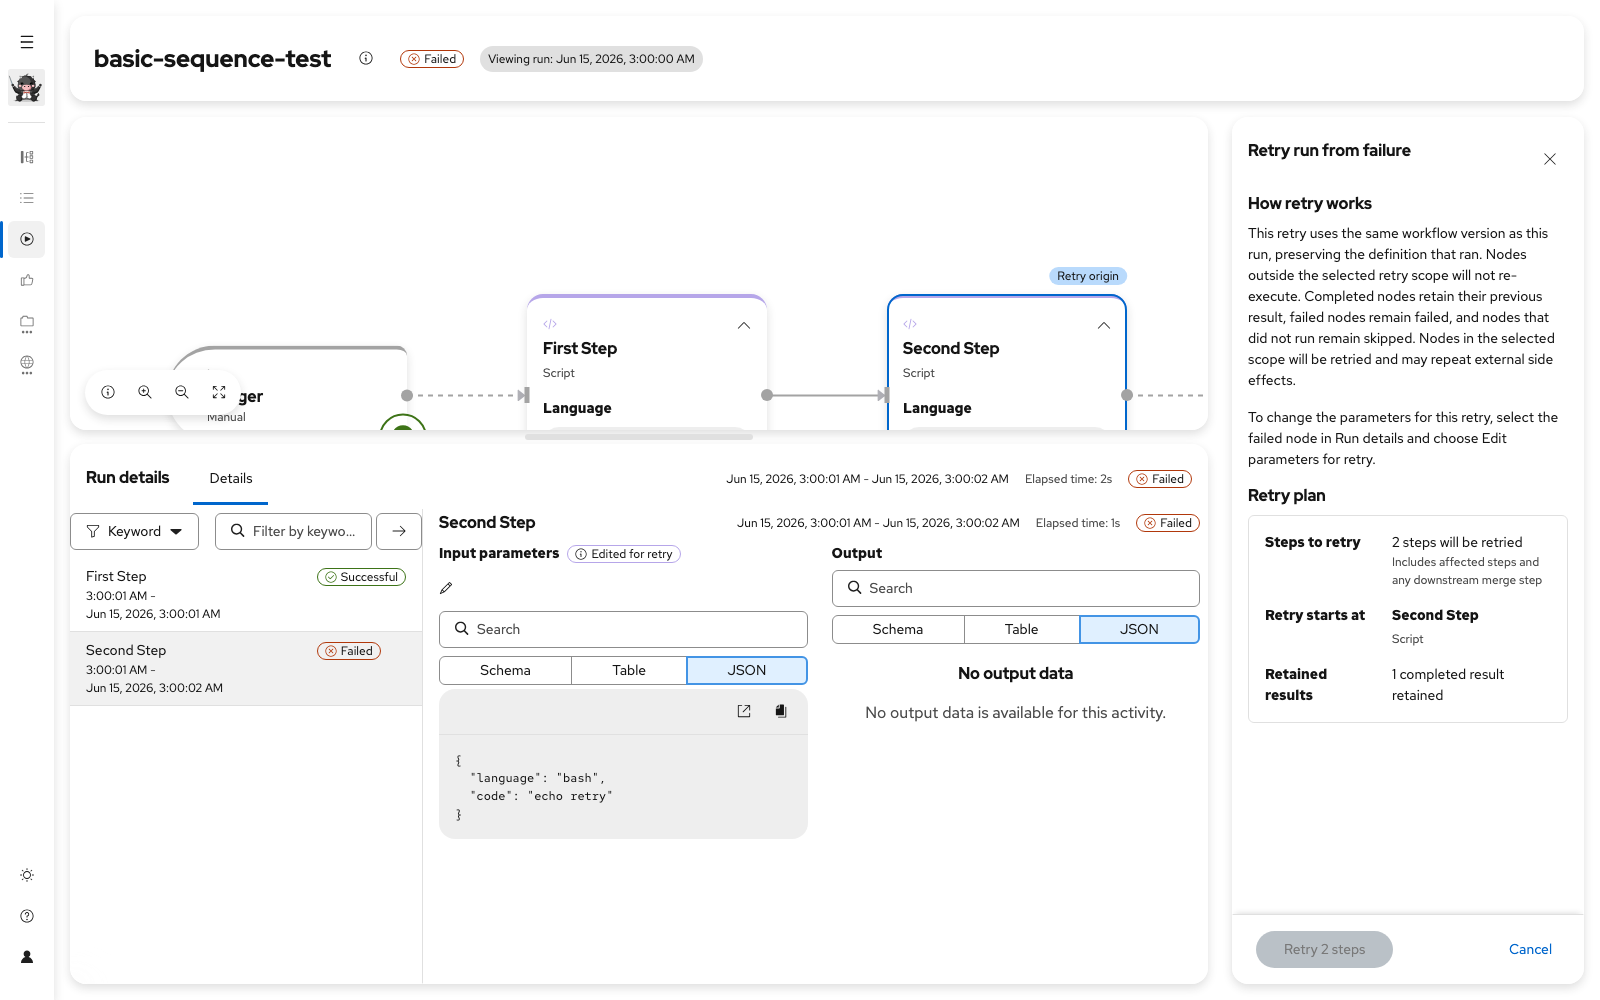
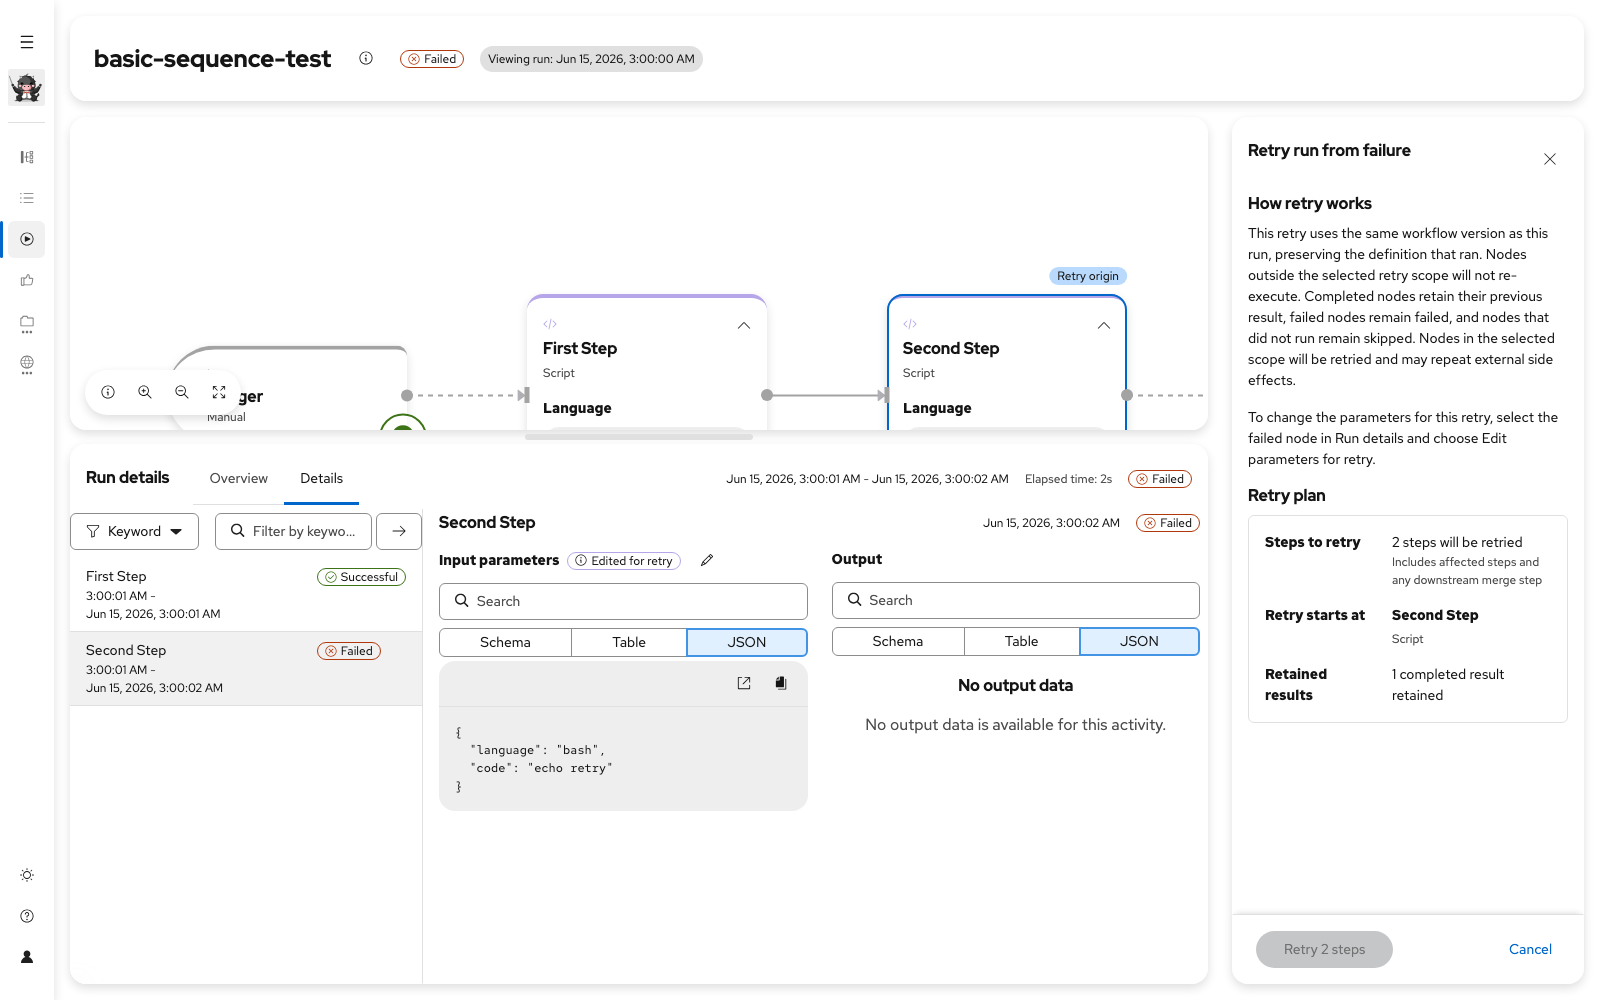
fix(frontend): align retry execution details

diff --git a/frontend/packages/syntara-ui/src/routes/executions/StepExecutionDetailsPanel.tsx b/frontend/packages/syntara-ui/src/routes/executions/StepExecutionDetailsPanel.tsx
@@ -33,10 +33,8 @@ import { SynCodeBlock } from '../../components/details/SynCodeBlock'
 import { SynLabel } from '../../components/labels/SynLabel'
 import { SynErrorState } from '../../components/states/SynErrorState'
 import { ExecutionTimestamp } from '../../components/table/ExecutionTimestamp'
-import { useElapsedTime } from '../../hooks/useElapsedTime'
 import { extractAAPJobUrl, isAAPNodeType } from '../../utils/aapJobUrl'
 import { capitalize } from '../../utils/capitalize'
-import { formatElapsedTime } from '../../utils/dateUtils'
 import { detachPromise } from '../../utils/detachPromise'
 import { highlightTextLines } from '../../utils/highlightText'
 import { ActivityStatusLabel } from '../builder/ExecutionStatus'
@@ -146,8 +144,8 @@ function DataPane({
           <div className={styles.dataPaneTitleRow}>
             <span className={styles.dataPaneTitle}>{title}</span>
             {titleAddon && <span className={styles.dataPaneTitleAddon}>{titleAddon}</span>}
+            {titleAction}
           </div>
-          {titleAction && <div className={styles.dataPaneTitleActionRow}>{titleAction}</div>}
           <div className={styles.dataPaneControlsWrap}>
             <Flex
               alignItems={{ default: stackControls ? 'alignItemsStretch' : 'alignItemsCenter' }}
@@ -278,15 +276,11 @@ function UsedToolsSection({ tools }: Readonly<{ tools: UsedTool[] }>) {
 
 function StepDetailsHeader({
   stepName,
-  stepStarted,
-  stepCompleted,
-  stepElapsedLabel,
+  stepTimestamp,
   status,
 }: Readonly<{
   stepName: string
-  stepStarted: string | null
-  stepCompleted: string | null
-  stepElapsedLabel?: string
+  stepTimestamp: string | null
   status?: ActivityState['status']
 }>) {
   return (
@@ -299,26 +293,12 @@ function StepDetailsHeader({
         </FlexItem>
         <FlexItem>
           <Flex gap={{ default: 'gapMd' }} alignItems={{ default: 'alignItemsCenter' }}>
-            {stepStarted && (
+            {stepTimestamp && (
               <Content
                 component={ContentVariants.small}
                 style={{ color: 'var(--pf-t--global--text--color--subtle)', margin: 0 }}
               >
-                <ExecutionTimestamp dateString={stepStarted} />
-                {stepCompleted && (
-                  <>
-                    {' - '}
-                    <ExecutionTimestamp dateString={stepCompleted} />
-                  </>
-                )}
-              </Content>
-            )}
-            {stepElapsedLabel && (
-              <Content
-                component={ContentVariants.small}
-                style={{ color: 'var(--pf-t--global--text--color--subtle)', margin: 0 }}
-              >
-                Elapsed time: {stepElapsedLabel}
+                <ExecutionTimestamp dateString={stepTimestamp} />
               </Content>
             )}
             {status && (
@@ -413,7 +393,6 @@ function StepContentArea({
                   <Tooltip content="Edit parameters for retry">
                     <Button
                       variant="plain"
-                      className={styles.retryInputEditButton}
                       aria-label="Edit parameters for retry"
                       isDisabled={retryEditorProps.isDisabled}
                       onClick={() =>
@@ -476,20 +455,14 @@ export function StepExecutionDetailsPanel({
   const approvalAudit = useMemo(() => extractApprovalAudit(outputData), [outputData])
   const usedTools = useMemo(() => extractUsedTools(outputData), [outputData])
 
-  const stepStarted = stepState?.startedAt ?? null
-  const stepCompleted = stepState?.completedAt ?? null
-  const stepIsRunning = stepState?.status === 'running'
+  const stepTimestamp = stepState?.completedAt ?? stepState?.startedAt ?? null
   const stepIsFailed = stepState?.status === 'failed'
-  const { elapsedMs } = useElapsedTime(stepStarted, stepCompleted, stepIsRunning)
-  const stepElapsedLabel = elapsedMs === undefined ? undefined : formatElapsedTime(elapsedMs)
 
   return (
     <Stack className={styles.contentContainer}>
       <StepDetailsHeader
         stepName={stepName}
-        stepStarted={stepStarted}
-        stepCompleted={stepCompleted}
-        stepElapsedLabel={stepElapsedLabel}
+        stepTimestamp={stepTimestamp}
         status={stepState?.status}
       />
 

diff --git a/frontend/packages/syntara-ui/e2e/workflows/retry-from-failure.spec.ts b/frontend/packages/syntara-ui/e2e/workflows/retry-from-failure.spec.ts
@@ -265,6 +265,7 @@ test.describe('Retry from failure', { tag: '@local-only' }, () => {
       await app.getByTestId('retry-from-failure-button').click()
 
       await expect(app.getByRole('tab', { name: 'Details' })).toHaveAttribute('aria-selected', 'true')
+      await expect(app.getByText(/^Elapsed time:/)).toHaveCount(1)
       await expect(app.getByText(/"language": "bash"/, { exact: false })).toBeVisible()
       await app.getByRole('button', { name: 'Edit parameters for retry' }).click()
 
@@ -294,17 +295,21 @@ test.describe('Retry from failure', { tag: '@local-only' }, () => {
       const inputTitle = app.getByText('Input parameters', { exact: true })
       const inputTitleBounds = await inputTitle.evaluate((element) => {
         const bounds = element.getBoundingClientRect()
-        return { left: bounds.left, top: bounds.top }
+        return { left: bounds.left, top: bounds.top, right: bounds.right, bottom: bounds.bottom }
       })
       const editedBadgeBounds = await app.getByText('Edited for retry').evaluate((element) => {
         const bounds = element.getBoundingClientRect()
         return { left: bounds.left, top: bounds.top }
       })
-      expect(Math.abs(inputTitleBounds.top - editedBadgeBounds.top)).toBeLessThanOrEqual(2)
+      expect(Math.abs(inputTitleBounds.top - editedBadgeBounds.top)).toBeLessThanOrEqual(4)
 
-      const editIcon = app.getByRole('button', { name: 'Edit parameters for retry' }).locator('svg')
-      const editIconLeft = await editIcon.evaluate((element) => element.getBoundingClientRect().left)
-      expect(Math.abs(editIconLeft - inputTitleBounds.left)).toBeLessThan(3)
+      const editButtonBounds = await app.getByRole('button', { name: 'Edit parameters for retry' }).evaluate((element) => {
+          const bounds = element.getBoundingClientRect()
+          return { left: bounds.left, top: bounds.top, bottom: bounds.bottom }
+        })
+      expect(editButtonBounds.top).toBeLessThan(inputTitleBounds.bottom)
+      expect(editButtonBounds.bottom).toBeGreaterThan(inputTitleBounds.top)
+      expect(editButtonBounds.left).toBeGreaterThan(inputTitleBounds.right)
 
       const searchInput = app.getByRole('textbox', { name: 'Search input parameters data' })
       const viewToggle = app.getByRole('group', { name: 'Input parameters view selection' })
@@ -333,7 +338,8 @@ test.describe('Retry from failure', { tag: '@local-only' }, () => {
       expect(outputViewToggleBounds.top).toBeGreaterThan(outputSearchBounds.bottom)
       expect(Math.abs(outputSearchBounds.left - outputViewToggleBounds.left)).toBeLessThan(2)
       expect(Math.abs(outputSearchBounds.width - outputViewToggleBounds.width)).toBeLessThan(3)
-      expect(outputSearchBounds.top).toBeLessThan(searchBounds.top)
+      expect(Math.abs(outputSearchBounds.top - searchBounds.top)).toBeLessThanOrEqual(2)
+      expect(Math.abs(outputViewToggleBounds.top - viewToggleBounds.top)).toBeLessThanOrEqual(2)
 
       await app.getByRole('button', { name: 'Edit parameters for retry' }).click()
       await expect(app.getByTestId('inline-code-editor').locator('.view-lines')).toContainText('echo retry')

diff --git a/frontend/packages/syntara-ui/src/routes/executions/StepExecutionDetailsPanel.test.tsx b/frontend/packages/syntara-ui/src/routes/executions/StepExecutionDetailsPanel.test.tsx
@@ -326,7 +326,7 @@ describe('StepExecutionDetailsPanel', () => {
     expect(searchInputs[0]).toHaveValue('')
   })
 
-  it('renders running status with elapsed time updating', () => {
+  it('renders running status without a separate step elapsed time', () => {
     const propsWithRunning = {
       ...defaultProps,
       stepState: {
@@ -339,7 +339,7 @@ describe('StepExecutionDetailsPanel', () => {
     render(<StepExecutionDetailsPanel {...propsWithRunning} />, { wrapper })
 
     expect(screen.getByText('Running')).toBeInTheDocument()
-    expect(screen.getByText(/Elapsed time:/)).toBeInTheDocument()
+    expect(screen.queryByText(/Elapsed time:/)).not.toBeInTheDocument()
   })
 
   it('renders failed status with error styling on output', () => {
@@ -357,13 +357,12 @@ describe('StepExecutionDetailsPanel', () => {
     expect(screen.getByText('Failed')).toBeInTheDocument()
   })
 
-  it('renders timestamp range when step has both start and end times', () => {
+  it('renders only the completion timestamp when step has both start and end times', () => {
     render(<StepExecutionDetailsPanel {...defaultProps} />, { wrapper })
 
-    // Start and end render as two separate <time> elements (via PatternFly Timestamp)
-    // joined by " - ". Timestamps render in local timezone, so just verify the date
-    // appears twice rather than asserting an exact combined string.
-    expect(screen.getAllByText(/Jan.*1.*2024/i)).toHaveLength(2)
+    expect(screen.getAllByText(/Jan.*1.*2024/i)).toHaveLength(1)
+    expect(screen.queryByText(/ - /)).not.toBeInTheDocument()
+    expect(screen.queryByText(/Elapsed time:/)).not.toBeInTheDocument()
   })
 
   it('renders only start timestamp when completion time is missing', () => {

diff --git a/frontend/packages/syntara-ui/src/routes/builder/ExecutionDetailsPanel.tsx b/frontend/packages/syntara-ui/src/routes/builder/ExecutionDetailsPanel.tsx
@@ -146,7 +146,6 @@ function ThreePanelLayout({
           isRunning={isRunning}
           viewMode={viewMode}
           onViewModeChange={onViewModeChange}
-          retryMode={retryMode}
           headerLabel={headerLabel}
           onClosePanel={onClosePanel}
         />
@@ -361,6 +360,7 @@ export function ExecutionDetailsPanel({
   const { setActivityExecutions } = useExecutionStoreActions()
   const activityStates = useExecutionStore((s) => s.activityStates)
   const replayBaselineAt = useExecutionStore(selectRetryReplayBaseline)
+  const [retryModeViewMode, setRetryModeViewMode] = useState<ViewMode>('details')
   const [viewMode, setViewMode] = useState<ViewMode>('overview')
 
   const executionQuery = executionsClient.useQuery('get', '/executions/{execution_id}', {
@@ -419,12 +419,15 @@ export function ExecutionDetailsPanel({
       onNodeSelect,
     })
 
-  const effectiveViewMode: ViewMode = retryMode ? 'details' : viewMode
+  const effectiveViewMode: ViewMode = retryMode ? retryModeViewMode : viewMode
 
   const handleViewModeChange = useCallback(
     (mode: ViewMode) => {
-      if (retryMode && mode !== 'details') return
-      setViewMode(mode)
+      if (retryMode) {
+        setRetryModeViewMode(mode)
+      } else {
+        setViewMode(mode)
+      }
       if (mode === 'details' && effectiveKey === null && filteredActivityOrder.length > 0) {
         const first = filteredActivityOrder[0]
         handleRowClick(first.id, first.name ?? first.id)

diff --git a/frontend/packages/syntara-ui/src/routes/builder/ExecutionDetailsPanel.test.tsx b/frontend/packages/syntara-ui/src/routes/builder/ExecutionDetailsPanel.test.tsx
@@ -302,7 +302,8 @@ describe('ExecutionDetailsPanel', () => {
       expect(screen.getByText('Process data')).toBeInTheDocument()
     })
 
-    it('keeps Run details in Details mode while retry mode is active', () => {
+    it('keeps Overview and Details available and defaults to Details in retry mode', async () => {
+      const user = userEvent.setup()
       render(
         <ExecutionDetailsPanel
           executionId="exec-123"
@@ -312,8 +313,13 @@ describe('ExecutionDetailsPanel', () => {
         />
       )
 
+      expect(screen.getByRole('tab', { name: 'Overview' })).toBeInTheDocument()
       expect(screen.getByRole('tab', { name: 'Details' })).toHaveAttribute('aria-selected', 'true')
-      expect(screen.queryByRole('tab', { name: 'Overview' })).not.toBeInTheDocument()
+
+      await user.click(screen.getByRole('tab', { name: 'Overview' }))
+
+      expect(screen.getByRole('tab', { name: 'Overview' })).toHaveAttribute('aria-selected', 'true')
+      expect(screen.getByRole('tab', { name: 'Details' })).toHaveAttribute('aria-selected', 'false')
     })
 
     it('selects the first activity by default when switching to Details mode', async () => {

diff --git a/frontend/packages/syntara-ui/src/routes/builder/ExecutionDetailsPanelHeader.tsx b/frontend/packages/syntara-ui/src/routes/builder/ExecutionDetailsPanelHeader.tsx
@@ -38,7 +38,6 @@ type HeaderMetadataProps = {
   isRunning: boolean
   viewMode: ViewMode
   onViewModeChange: (mode: ViewMode) => void
-  retryMode?: boolean
   headerLabel?: string
   onClosePanel?: () => void
 }
@@ -49,7 +48,6 @@ export function HeaderMetadata({
   isRunning,
   viewMode,
   onViewModeChange,
-  retryMode = false,
   headerLabel,
   onClosePanel,
 }: Readonly<HeaderMetadataProps>) {
@@ -68,7 +66,7 @@ export function HeaderMetadata({
           </FlexItem>
           <FlexItem>
             <Tabs activeKey={viewMode} onSelect={(_e, key) => onViewModeChange(key as ViewMode)} variant="secondary">
-              {!retryMode && <Tab eventKey="overview" title={<TabTitleText>Overview</TabTitleText>} />}
+              <Tab eventKey="overview" title={<TabTitleText>Overview</TabTitleText>} />
               <Tab eventKey="details" title={<TabTitleText>Details</TabTitleText>} />
             </Tabs>
           </FlexItem>

diff --git a/frontend/packages/syntara-ui/src/routes/executions/StepExecutionDetailsPanel.module.css b/frontend/packages/syntara-ui/src/routes/executions/StepExecutionDetailsPanel.module.css
@@ -35,21 +35,7 @@
   align-items: center;
   flex-wrap: wrap;
   gap: var(--pf-t--global--spacer--sm);
-  min-height: 1.5rem;
-}
-
-.dataPaneTitleActionRow {
-  display: flex;
-  align-items: center;
-  min-height: 1.5rem;
-}
-
-.retryInputEditButton {
-  padding-inline-start: 0;
-}
-
-.retryInputEditButton :global(svg) {
-  transform: translateX(-0.5rem);
+  min-height: 2.25rem;
 }
 
 .dataPaneControlsWrap {
